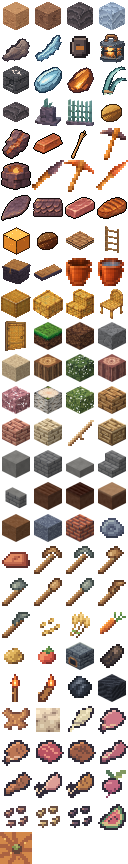
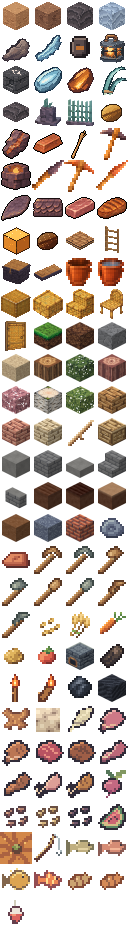
Pesca do Orvalis pela Wiki (ADR 0133, v0.202.0): vara, boia, peixes e comida
Lançar, esperar 5–30 s, recolher na janela de 1–2 s; peixes 60/25/13/2 %. A receita da vara aguarda a arte de fio.

Claude-Session: https://claude.ai/code/session_01KGdgoniDf5SwPMM31qtkm2

diff --git a/src/titan/items.ts b/src/titan/items.ts
@@ -4,7 +4,7 @@ import { BLOCK_NAMES, isCarpentry, isMarco, isPanel, isWorkbench, T } from './vo
  * Itens do Titã (ADR 0040). O id é o índice do sprite no atlas da hotbar + 1 (`render/art/titan.ts`): a ordem do atlas não depende da ordem dos espaços da barra.
  * Os quatro primeiros coincidem com os ids de bloco `T.SAND … T.FROST`.
  */
-export const Item = { SAND: 1, DAMP_SAND: 2, DARK_ROCK: 3, FROST: 4, ROCK_SHARD: 5, FROST_SHARD: 6, CAPSULE: 7, LANTERN: 8, WORKBENCH: 9, ICE_LENS: 10, EMBER: 11, GLASS_REED: 12, SLAB: 13, MARCO: 14, PAINEL: 15, NOZ: 16, COPPER_SHARD: 17, COPPER_INGOT: 18, DRY_REED: 19, STONE_PICK: 20, BRAZIER: 21, STONE_DAGGER: 22, COPPER_PICK: 23, COPPER_DAGGER: 24, PLATE: 25, CARAPACE: 26, RAW_MEAT: 27, COOKED_MEAT: 28, EMBER_BLOCK: 29, NOZ_TORRADA: 30, ESTEIRA: 31, ESCADA: 32, BAU: 33, CAMA: 34, BALDE: 35, BALDE_CHEIO: 36, BLOCO_JUNCO: 37, LAJE_JUNCO: 38, DEGRAU_JUNCO: 39, CADEIRA_JUNCO: 40, PORTA_JUNCO: 41, GRASS: 42, DIRT: 43, STONE: 44, BEACH: 45, LOG_OAK: 46, LEAVES_OAK: 47, LOG_CHERRY: 48, LEAVES_CHERRY: 49, LOG_BIRCH: 50, LEAVES_BIRCH: 51, TABUA_CARVALHO: 52, TABUA_CEREJEIRA: 53, TABUA_BETULA: 54, HASTE: 55, MESA_CARPINTARIA: 56, PEDRA_LISA: 57, TIJOLO_PEDRA: 58, LAJE_PEDRA: 59, DEGRAU_PEDRA: 60, MURETA_PEDRA: 61, TERRA_ARADA_SECA: 62, TERRA_ARADA_UMIDA: 63, CAMINHO_TERRA: 64, TERRA_INFERTIL: 65, BLOCO_ARGILA: 66, BLOCO_TIJOLOS: 67, BOLA_ARGILA: 68, TIJOLO: 69, PICARETA_MADEIRA: 70, PICARETA_PEDRA: 71, MACHADO_MADEIRA: 72, MACHADO_PEDRA: 73, PA_MADEIRA: 74, PA_PEDRA: 75, ENXADA_MADEIRA: 76, ENXADA_PEDRA: 77, SEMENTE_TRIGO: 78, TRIGO: 79, CENOURA: 80, BATATA: 81, TOMATE: 82, FORNALHA: 83, CARVAO_VEGETAL: 84, TOCHA: 85, CARVAO: 87, BLOCO_CARVAO: 88, COURO: 89, LA: 90, PENA: 91, PORCO_CRU: 92, PORCO_ASSADO: 93, BOVINA_CRUA: 94, BIFE: 95, CARNEIRO_CRU: 96, CARNEIRO_ASSADO: 97, FRANGO_CRU: 98, FRANGO_ASSADO: 99, BETERRABA: 100, SEMENTE_BETERRABA: 101, SEMENTE_ABOBORA: 102, SEMENTE_MELANCIA: 103, FATIA_MELANCIA: 104, BLOCO_ABOBORA: 105 } as const;
+export const Item = { SAND: 1, DAMP_SAND: 2, DARK_ROCK: 3, FROST: 4, ROCK_SHARD: 5, FROST_SHARD: 6, CAPSULE: 7, LANTERN: 8, WORKBENCH: 9, ICE_LENS: 10, EMBER: 11, GLASS_REED: 12, SLAB: 13, MARCO: 14, PAINEL: 15, NOZ: 16, COPPER_SHARD: 17, COPPER_INGOT: 18, DRY_REED: 19, STONE_PICK: 20, BRAZIER: 21, STONE_DAGGER: 22, COPPER_PICK: 23, COPPER_DAGGER: 24, PLATE: 25, CARAPACE: 26, RAW_MEAT: 27, COOKED_MEAT: 28, EMBER_BLOCK: 29, NOZ_TORRADA: 30, ESTEIRA: 31, ESCADA: 32, BAU: 33, CAMA: 34, BALDE: 35, BALDE_CHEIO: 36, BLOCO_JUNCO: 37, LAJE_JUNCO: 38, DEGRAU_JUNCO: 39, CADEIRA_JUNCO: 40, PORTA_JUNCO: 41, GRASS: 42, DIRT: 43, STONE: 44, BEACH: 45, LOG_OAK: 46, LEAVES_OAK: 47, LOG_CHERRY: 48, LEAVES_CHERRY: 49, LOG_BIRCH: 50, LEAVES_BIRCH: 51, TABUA_CARVALHO: 52, TABUA_CEREJEIRA: 53, TABUA_BETULA: 54, HASTE: 55, MESA_CARPINTARIA: 56, PEDRA_LISA: 57, TIJOLO_PEDRA: 58, LAJE_PEDRA: 59, DEGRAU_PEDRA: 60, MURETA_PEDRA: 61, TERRA_ARADA_SECA: 62, TERRA_ARADA_UMIDA: 63, CAMINHO_TERRA: 64, TERRA_INFERTIL: 65, BLOCO_ARGILA: 66, BLOCO_TIJOLOS: 67, BOLA_ARGILA: 68, TIJOLO: 69, PICARETA_MADEIRA: 70, PICARETA_PEDRA: 71, MACHADO_MADEIRA: 72, MACHADO_PEDRA: 73, PA_MADEIRA: 74, PA_PEDRA: 75, ENXADA_MADEIRA: 76, ENXADA_PEDRA: 77, SEMENTE_TRIGO: 78, TRIGO: 79, CENOURA: 80, BATATA: 81, TOMATE: 82, FORNALHA: 83, CARVAO_VEGETAL: 84, TOCHA: 85, CARVAO: 87, BLOCO_CARVAO: 88, COURO: 89, LA: 90, PENA: 91, PORCO_CRU: 92, PORCO_ASSADO: 93, BOVINA_CRUA: 94, BIFE: 95, CARNEIRO_CRU: 96, CARNEIRO_ASSADO: 97, FRANGO_CRU: 98, FRANGO_ASSADO: 99, BETERRABA: 100, SEMENTE_BETERRABA: 101, SEMENTE_ABOBORA: 102, SEMENTE_MELANCIA: 103, FATIA_MELANCIA: 104, BLOCO_ABOBORA: 105, VARA_PESCA: 106, BACALHAU_CRU: 107, SALMAO_CRU: 108, BAIACU: 109, PEIXE_TROPICAL: 110, BACALHAU_ASSADO: 111, SALMAO_ASSADO: 112, BOIA: 113 } as const;
 export type ItemId = (typeof Item)[keyof typeof Item];
 
 export const ITEM_NAMES: Record<number, string> = {
@@ -17,7 +17,7 @@ const ORVALIS_BLOCK_ITEMS: Readonly<Record<number, number>> = { ...Object.fromEn
 for (const [item, block] of Object.entries(ORVALIS_ITEM_BLOCKS)) ITEM_NAMES[Number(item)] = BLOCK_NAMES[block];
 Object.assign(ITEM_NAMES, { 70: 'Picareta de Madeira', 71: 'Picareta de Pedra', 72: 'Machado de Madeira', 73: 'Machado de Pedra', 74: 'Pá de Madeira', 75: 'Pá de Pedra', 76: 'Enxada de Madeira', 77: 'Enxada de Pedra' }); // ferramentas do Orvalis (ADR 0112)
 Object.assign(ITEM_NAMES, { 78: 'Semente de Trigo', 79: 'Trigo', 80: 'Cenoura', 81: 'Batata', 82: 'Tomate' }); // horta (ADR 0113)
-Object.assign(ITEM_NAMES, { 89: 'Couro', 90: 'Lã', 91: 'Pena', 92: 'Carne de Porco Crua', 93: 'Carne de Porco Assada', 94: 'Carne Bovina Crua', 95: 'Bife', 96: 'Carneiro Cru', 97: 'Carneiro Assado', 98: 'Frango Cru', 99: 'Frango Assado', 100: 'Beterraba', 101: 'Semente de Beterraba', 102: 'Semente de Abóbora', 103: 'Semente de Melancia', 104: 'Fatia de Melancia', 105: 'Bloco de Abóbora' }); // espólio da fauna de fazenda (ADR 0124; ícones provisórios, exceto couro e lã)
+Object.assign(ITEM_NAMES, { 89: 'Couro', 90: 'Lã', 91: 'Pena', 92: 'Carne de Porco Crua', 93: 'Carne de Porco Assada', 94: 'Carne Bovina Crua', 95: 'Bife', 96: 'Carneiro Cru', 97: 'Carneiro Assado', 98: 'Frango Cru', 99: 'Frango Assado', 100: 'Beterraba', 101: 'Semente de Beterraba', 102: 'Semente de Abóbora', 103: 'Semente de Melancia', 104: 'Fatia de Melancia', 105: 'Bloco de Abóbora', 106: 'Vara de Pesca', 107: 'Bacalhau Cru', 108: 'Salmão Cru', 109: 'Baiacu', 110: 'Peixe Tropical', 111: 'Bacalhau Assado', 112: 'Salmão Assado' }); // pesca (ADR 0133); 113 = só a textura da boia, não é item // espólio da fauna de fazenda (ADR 0124; ícones provisórios, exceto couro e lã)
 ITEM_NAMES[Item.CARVAO_VEGETAL] = 'Carvão Vegetal'; ITEM_NAMES[Item.CARVAO] = 'Carvão'; // item sem bloco (ADR 0122) // item sem bloco (ADR 0120; ícone provisório)
 ITEM_NAMES[Item.BOLA_ARGILA] = 'Bola de Argila'; ITEM_NAMES[Item.TIJOLO] = 'Tijolo'; // itens sem bloco (ADR 0111)
 ITEM_NAMES[Item.MURETA_PEDRA] = 'Mureta de Pedra'; // a conexão vem dos vizinhos (ADR 0110)
@@ -25,8 +25,10 @@ ITEM_NAMES[Item.DEGRAU_PEDRA] = 'Degrau de Pedra'; // sem entrada em ORVALIS_ITE
 ITEM_NAMES[Item.HASTE] = 'Haste de Madeira'; // item sem bloco (ADR 0107)
 /** Pilhas: blocos, fragmentos, lente e brasa até 64; cápsula (legada, id reservado), lanterna e mesa até 1 (a mesa 1 por espaço: é uma peça grande). */
 export const maxStack = (item: number): number => (item === Item.CAPSULE || item === Item.LANTERN || item === Item.WORKBENCH || isBucket(item) || isTool(item) ? 1 : 64);
-export const isItem = (n: unknown): n is ItemId => Number.isInteger(n) && (n as number) >= 1 && (n as number) <= 105 && n !== 86; // 86 é só a textura da Tocha de parede no atlas (ADR 0121)
+export const isItem = (n: unknown): n is ItemId => Number.isInteger(n) && (n as number) >= 1 && (n as number) <= 112 && n !== 86; // 86 é só a textura da Tocha de parede no atlas (ADR 0121)
 /** Balde de Cobre (ADR 0091): vazio recolhe uma célula do lago, cheio a despeja. Pergunte aqui, nunca compare ids soltos. */
+/** Itens que fazem a mira acertar o líquido: o balde (ADR 0091) e a vara de pesca (ADR 0133). */
+export const aimsLiquid = (item: number | undefined | null): boolean => isBucket(item) || item === Item.VARA_PESCA;
 export const isBucket = (item: number | undefined | null): boolean => item === Item.BALDE || item === Item.BALDE_CHEIO;
 
 /** Bloco que o item coloca (blocos e lanterna); fragmentos e cápsula não se colocam. */
@@ -89,7 +91,8 @@ export const dropCountOf = (block: number): number => (block === T.SLAB_DOUBLE ?
 
 /** Comida (ADR 0060): fome recuperada (pontos de 0 a 20) e saturação somada (como no Minecraft: `fome + saturação` limitada à fome). Provisório, pede teste em jogo. */
 export const FOOD: Readonly<Record<number, { hunger: number; saturation: number }>> = { [Item.NOZ]: { hunger: 4, saturation: 2.4 }, [Item.NOZ_TORRADA]: { hunger: 7, saturation: 5.6 }, [Item.RAW_MEAT]: { hunger: 2, saturation: 1.2 }, [Item.COOKED_MEAT]: { hunger: 8, saturation: 12.8 }, [Item.CENOURA]: { hunger: 3, saturation: 3.6 }, [Item.BATATA]: { hunger: 1, saturation: 0.6 }, [Item.TOMATE]: { hunger: 2, saturation: 2.4 },
-  [Item.PORCO_CRU]: { hunger: 3, saturation: 1.8 }, [Item.PORCO_ASSADO]: { hunger: 8, saturation: 12.8 }, [Item.BOVINA_CRUA]: { hunger: 3, saturation: 1.8 }, [Item.BIFE]: { hunger: 8, saturation: 12.8 }, [Item.CARNEIRO_CRU]: { hunger: 2, saturation: 1.2 }, [Item.CARNEIRO_ASSADO]: { hunger: 6, saturation: 9.6 }, [Item.FRANGO_CRU]: { hunger: 2, saturation: 1.2 }, [Item.FRANGO_ASSADO]: { hunger: 6, saturation: 7.2 }, [Item.BETERRABA]: { hunger: 1, saturation: 1.2 }, [Item.FATIA_MELANCIA]: { hunger: 2, saturation: 1.2 } }; // carnes da fauna (ADR 0124): valores da Minecraft Wiki; a intoxicação do frango cru fica de fora // horta do Orvalis (ADR 0113): cenoura e batata como no Minecraft; o tomate é nosso (provisório)
+  [Item.PORCO_CRU]: { hunger: 3, saturation: 1.8 }, [Item.PORCO_ASSADO]: { hunger: 8, saturation: 12.8 }, [Item.BOVINA_CRUA]: { hunger: 3, saturation: 1.8 }, [Item.BIFE]: { hunger: 8, saturation: 12.8 }, [Item.CARNEIRO_CRU]: { hunger: 2, saturation: 1.2 }, [Item.CARNEIRO_ASSADO]: { hunger: 6, saturation: 9.6 }, [Item.FRANGO_CRU]: { hunger: 2, saturation: 1.2 }, [Item.FRANGO_ASSADO]: { hunger: 6, saturation: 7.2 }, [Item.BETERRABA]: { hunger: 1, saturation: 1.2 }, [Item.FATIA_MELANCIA]: { hunger: 2, saturation: 1.2 },
+  [Item.BACALHAU_CRU]: { hunger: 2, saturation: 0.4 }, [Item.SALMAO_CRU]: { hunger: 2, saturation: 0.4 }, [Item.BACALHAU_ASSADO]: { hunger: 5, saturation: 6 }, [Item.SALMAO_ASSADO]: { hunger: 6, saturation: 9.6 }, [Item.PEIXE_TROPICAL]: { hunger: 1, saturation: 0.2 } }; // peixes da Wiki (ADR 0133); o baiacu não se come (sem efeitos de status) // carnes da fauna (ADR 0124): valores da Minecraft Wiki; a intoxicação do frango cru fica de fora // horta do Orvalis (ADR 0113): cenoura e batata como no Minecraft; o tomate é nosso (provisório)
 export const foodOf = (item: number): { hunger: number; saturation: number } | null => FOOD[item] ?? null;
 
 /**

diff --git a/src/titan/session.ts b/src/titan/session.ts
@@ -1,6 +1,7 @@
 import { GENERATOR_VERSION, TitanGenerator } from './generator';
 import type { TerrainGen } from './terrain';
 import { HOTBAR, Inventory } from './inventory';
+import type { Bobber } from './fishing';
 import { isItem, Item } from './items';
 import { creatureSpecs, type Farejador, newFromSpec } from './creature';
 import { type Fauna, faunaFromData, faunaSpecs, faunaToData, hasFauna, newFaunaFromSpecs } from './fauna';
@@ -65,6 +66,8 @@ export interface TitanSession {
   /** Lascas soltas por veios quebrados (v3, ADR 0044): recolhidas por proximidade; vão no cabeçalho do save. */
   drops: Map<string, Drop>;
   /** Relógio só de execução dos drops de bloco (ADR 0082): atraso de coleta e idade; fora do save (recarregar zera). */
+  /** Pescaria em curso (ADR 0133): a boia lançada; só de execução, fora do save. */
+  fishing: Bobber | null;
   dropFx: Map<string, { delay: number; age: number; /** Queda (ADR 0098): altura real em células e velocidade para baixo; ausentes = repousa. */ fy?: number; vy?: number }>;
   dropsRev: number;
   /** Receitas descobertas (`mesa`, `bancada`; ADR 0045) e adições localizadas de partida legada (a brasa dada uma vez). Vão no cabeçalho do save. */
@@ -81,7 +84,8 @@ export interface TitanSession {
 const stateRev = (s: TitanSession): number => s.inventory.rev + s.collectedRev + s.dropsRev + s.metaRev;
 /** Tudo o que está solto no mundo para desenhar: lascas legadas (v1/v2) ainda não recolhidas e as lascas dos veios (v3). */
 export function visibleItems(s: TitanSession): Array<{ id: string; item: number; x: number; y: number; z: number }> {
-  return [...s.items.remaining(), ...[...s.drops.values()].map((d) => { const fy = s.dropFx.get(d.id)?.fy; return fy === undefined ? d : { ...d, y: fy }; })]; // o item em queda desenha na altura real (ADR 0098)
+  const bobber = s.fishing ? [{ id: 'boia', item: Item.BOIA, x: s.fishing.x, y: s.fishing.y, z: s.fishing.z }] : []; // a boia da vara é desenhada como um item na superfície (ADR 0133)
+  return [...bobber, ...s.items.remaining(), ...[...s.drops.values()].map((d) => { const fy = s.dropFx.get(d.id)?.fy; return fy === undefined ? d : { ...d, y: fy }; })]; // o item em queda desenha na altura real (ADR 0098)
 }
 /** Há inventário/coleta ainda não confirmados no banco? */
 export const hasPendingState = (s: TitanSession): boolean => stateRev(s) !== s.savedStateRev;
@@ -257,7 +261,7 @@ export function fresh(gen: TerrainGen): TitanSession {
   const regrow = new Map<string, number>();
   const crops = new Map<string, Crop>();
   const grants: TitanSession['grants'] = {};
-  const s = { seed: gen.seed, volume, body: newBody(a.x, a.y, a.z), yaw: a.yaw, pitch: -0.12, selected: 0, resumed: false, relocated: false, time: START_FRAC, days: 0, weather: newWeather(Math.random), inventory: Inventory.starting(), collected, collectedRev: 0, regrow, crops, furnaces: new Map<string, FurnaceState>(), chests: new Map<string, ChestState>(), spawn: null, respawn: new Map<string, number>(), creatures: creaturesFor(gen), fauna: faunaFor(gen), savedStateRev: -1, drops: new Map(), dropFx: new Map(), dropsRev: 0, vitals: newVitals(), known: new Set<string>(), grants, metaRev: 0, items: makeItems({ volume, collected, grants, regrow, crops }) };
+  const s = { seed: gen.seed, volume, body: newBody(a.x, a.y, a.z), yaw: a.yaw, pitch: -0.12, selected: 0, resumed: false, relocated: false, time: START_FRAC, days: 0, weather: newWeather(Math.random), inventory: Inventory.starting(), collected, collectedRev: 0, regrow, crops, furnaces: new Map<string, FurnaceState>(), chests: new Map<string, ChestState>(), spawn: null, respawn: new Map<string, number>(), creatures: creaturesFor(gen), fauna: faunaFor(gen), savedStateRev: -1, drops: new Map(), dropFx: new Map(), fishing: null, dropsRev: 0, vitals: newVitals(), known: new Set<string>(), grants, metaRev: 0, items: makeItems({ volume, collected, grants, regrow, crops }) };
   return s;
 }
 
@@ -283,7 +287,7 @@ export function resume(gen: TerrainGen, save: TitanSave): TitanSession {
   const crops = validCrops(save.header.crops, volume, save.header.v);
   const respawn = validRespawn(save.header.respawn, new Set(creatureSpecs(gen).map((c) => c.id)));
   const known = new Set<string>((save.header.recipes ?? []).filter((x): x is string => typeof x === 'string'));
-  const s: TitanSession = { seed: gen.seed, volume, body: newBody(safe.x, safe.y, safe.z), yaw: p.yaw, pitch: p.pitch, selected: Math.max(0, Math.min(HOTBAR - 1, save.header.selected | 0)), resumed: true, relocated: moved, time: validDay(save.header.time), days: Number.isInteger(save.header.days) && save.header.days! >= 0 ? save.header.days! : 0, weather: weatherFromData(save.header.weather, Math.random), inventory: inv, collected, collectedRev: 0, regrow, crops, furnaces: validFurnaces(save.header.furnaces, volume), chests: validChests(save.header.chests, volume), spawn: validSpawn(save.header.spawn, volume), respawn, creatures: creaturesFor(gen).filter((c) => !respawn.has(c.id)), fauna: faunaFromSave(save.header.fauna, gen, volume), savedStateRev: -1, drops: validDrops(save.header.drops, gen), dropFx: new Map(), dropsRev: 0, known, grants, metaRev: 0, vitals: vitalsFromData(save.header.vitals), items: makeItems({ volume, collected, grants, regrow, crops }) };
+  const s: TitanSession = { seed: gen.seed, volume, body: newBody(safe.x, safe.y, safe.z), yaw: p.yaw, pitch: p.pitch, selected: Math.max(0, Math.min(HOTBAR - 1, save.header.selected | 0)), resumed: true, relocated: moved, time: validDay(save.header.time), days: Number.isInteger(save.header.days) && save.header.days! >= 0 ? save.header.days! : 0, weather: weatherFromData(save.header.weather, Math.random), inventory: inv, collected, collectedRev: 0, regrow, crops, furnaces: validFurnaces(save.header.furnaces, volume), chests: validChests(save.header.chests, volume), spawn: validSpawn(save.header.spawn, volume), respawn, creatures: creaturesFor(gen).filter((c) => !respawn.has(c.id)), fauna: faunaFromSave(save.header.fauna, gen, volume), savedStateRev: -1, drops: validDrops(save.header.drops, gen), dropFx: new Map(), fishing: null, dropsRev: 0, known, grants, metaRev: 0, vitals: vitalsFromData(save.header.vitals), items: makeItems({ volume, collected, grants, regrow, crops }) };
   // partida de gerador antigo sem a fonte nova: adição localizada e determinística do depósito de brasa (respeita edições, construções e o que já foi consumido)
   const granted = gen.version < 4 && !grants.ember ? grantEmber(s) : false;
   discoverRecipes(s);

diff --git a/src/titan/orvalis/pesca.test.ts b/src/titan/orvalis/pesca.test.ts
@@ -1,0 +1,85 @@
+import { describe, expect, it } from 'vitest';
+import { placeFromSlot } from '../actions';
+import { FISH_MAX_DISTANCE, FISH_TABLE, FISH_WAIT_MAX_S, FISH_WAIT_MIN_S, FISH_WINDOW_MAX_S, FISH_WINDOW_MIN_S, newBobber, rollFish, stepFishing, tickBobber } from '../fishing';
+import { aimsLiquid, foodOf, isItem, Item } from '../items';
+import { maxDurability } from '../wear';
+import { MemoryTitanStorage } from '../save';
+import { openSession, visibleItems } from '../session';
+import { T } from '../voxel';
+import { RECIPES } from '../recipes';
+import { SLOTS } from '../inventory';
+
+/** Pesca do Orvalis (ADR 0133): vara, boia, espera, fisgada, peixes e comida pela Wiki. */
+const Y = 150;
+const setup = async () => {
+  const s = await openSession(new MemoryTitanStorage(), 42, () => 1, undefined, 2);
+  const a = s.volume.gen.arrival, x = Math.floor(a.x) + 6, z = Math.floor(a.z) + 6, v = s.volume;
+  for (let dx = -3; dx <= 3; dx++) for (let dz = -3; dz <= 3; dz++) for (let yy = Y - 6; yy < Y + 4; yy++) v.set(x + dx, yy, z + dz, yy < Y - 5 ? T.DARK_ROCK : yy < Y ? T.LAKE : T.AIR);
+  s.body.x = x + 0.5; s.body.y = Y; s.body.z = z + 3.5;
+  s.inventory.add(Item.VARA_PESCA, 1);
+  s.selected = Array.from({ length: SLOTS }, (_, i) => i).find((i) => s.inventory.get(i)?.item === Item.VARA_PESCA) ?? 0;
+  return { s, x, z };
+};
+const hitAt = (x: number, y: number, z: number) => ({ x, y, z, nx: 0, ny: 1, nz: 0 });
+
+describe('pesca (ADR 0133)', () => {
+  it('itens, comida e durabilidade da Wiki', () => {
+    expect(isItem(106)).toBe(true); expect(isItem(112)).toBe(true); expect(isItem(113)).toBe(false);
+    expect(foodOf(Item.BACALHAU_CRU)).toEqual({ hunger: 2, saturation: 0.4 }); expect(foodOf(Item.SALMAO_ASSADO)).toEqual({ hunger: 6, saturation: 9.6 });
+    expect(foodOf(Item.BACALHAU_ASSADO)).toEqual({ hunger: 5, saturation: 6 }); expect(foodOf(Item.PEIXE_TROPICAL)).toEqual({ hunger: 1, saturation: 0.2 });
+    expect(foodOf(Item.BAIACU)).toBeNull(); // sem efeitos de status, o baiacu não se come
+    expect(maxDurability(Item.VARA_PESCA)).toBe(64); expect(aimsLiquid(Item.VARA_PESCA)).toBe(true);
+  });
+  it('a tabela de peixes soma 100 e o sorteio respeita os pesos', () => {
+    expect(FISH_TABLE.reduce((a, e) => a + e.weight, 0)).toBe(100);
+    expect(rollFish(() => 0)).toBe(Item.BACALHAU_CRU); expect(rollFish(() => 0.61)).toBe(Item.SALMAO_CRU); expect(rollFish(() => 0.9)).toBe(Item.BAIACU); expect(rollFish(() => 0.995)).toBe(Item.PEIXE_TROPICAL);
+  });
+  it('espera de 5 a 30 s, fisgada e janela de 1 a 2 s; sem recolher, o peixe escapa', () => {
+    expect(newBobber(0, 0, 0, () => 0).t).toBe(FISH_WAIT_MIN_S); expect(newBobber(0, 0, 0, () => 1).t).toBe(FISH_WAIT_MAX_S);
+    const b = newBobber(0, 0, 0, () => 0);
+    expect(tickBobber(b, 4.9, () => 0)).toBeNull(); expect(tickBobber(b, 0.2, () => 0)).toBe('bite');
+    expect(b.phase).toBe('bite'); expect(b.t).toBe(FISH_WINDOW_MIN_S); expect(FISH_WINDOW_MAX_S).toBe(2);
+    expect(tickBobber(b, 1.1, () => 0)).toBe('escape'); expect(b.phase).toBe('wait');
+  });
+  it('lança na água, a boia aparece e o toque na fisgada traz o peixe e gasta 1 uso', async () => {
+    const { s, x, z } = await setup();
+    const r = placeFromSlot(s, hitAt(x, Y - 1, z), s.selected);
+    expect(r.ok).toBe(true); expect(s.fishing).toMatchObject({ x, y: Y, z, phase: 'wait' });
+    expect(visibleItems(s).some((i) => i.id === 'boia' && i.item === Item.BOIA)).toBe(true);
+    s.fishing!.t = 0.01; expect(stepFishing(s, 0.1)).toBe('bite');
+    const got = placeFromSlot(s, hitAt(x, Y - 1, z), s.selected);
+    expect(got.ok).toBe(true); expect(got.msg).toMatch(/Pescou/); expect(s.fishing).toBeNull();
+    const n = [Item.BACALHAU_CRU, Item.SALMAO_CRU, Item.BAIACU, Item.PEIXE_TROPICAL].reduce((a, i) => a + s.inventory.total(i), 0);
+    expect(n).toBe(1); expect(s.inventory.get(s.selected)?.wear).toBe(1);
+  });
+  it('recolher antes da fisgada não pega nada nem gasta a vara', async () => {
+    const { s, x, z } = await setup();
+    placeFromSlot(s, hitAt(x, Y - 1, z), s.selected);
+    const r = placeFromSlot(s, hitAt(x, Y - 1, z), s.selected);
+    expect(r.msg).toBe('Linha recolhida'); expect(s.fishing).toBeNull(); expect(s.inventory.get(s.selected)?.wear ?? 0).toBe(0);
+  });
+  it('só lança na água', async () => {
+    const { s, x, z } = await setup();
+    expect(placeFromSlot(s, hitAt(x, Y - 6, z), s.selected).ok).toBe(false); expect(s.fishing).toBeNull(); // o fundo de rocha
+  });
+  it('a linha se solta com a vara fora da mão ou longe demais', async () => {
+    const { s, x, z } = await setup();
+    placeFromSlot(s, hitAt(x, Y - 1, z), s.selected);
+    s.body.z += FISH_MAX_DISTANCE + 1; expect(stepFishing(s, 0.1)).toBe('lost'); expect(s.fishing).toBeNull();
+    s.body.z -= FISH_MAX_DISTANCE + 1; placeFromSlot(s, hitAt(x, Y - 1, z), s.selected);
+    s.selected = (s.selected + 1) % 9; expect(stepFishing(s, 0.1)).toBe('lost');
+  });
+  it('bacalhau e salmão assam na fornalha; a vara ainda não tem receita (espera o fio)', () => {
+    const ids = RECIPES.filter((r) => r.world === 'orvalis').map((r) => r.id);
+    expect(ids).toContain('assar-bacalhau'); expect(ids).toContain('assar-salmao');
+    expect(RECIPES.some((r) => r.result.item === Item.VARA_PESCA)).toBe(false);
+  });
+  it('sem lugar na mochila, o peixe cai ao lado da boia', async () => {
+    const { s, x, z } = await setup();
+    placeFromSlot(s, hitAt(x, Y - 1, z), s.selected); s.fishing!.t = 0; stepFishing(s, 0.1);
+    while (s.inventory.canAdd(Item.TIJOLO, 64)) s.inventory.add(Item.TIJOLO, 64); // lota a mochila
+    const before = s.drops.size;
+    placeFromSlot(s, hitAt(x, Y - 1, z), s.selected);
+    expect(s.drops.size).toBe(before + 1);
+  });
+});

diff --git a/src/titan/titan.css b/src/titan/titan.css
@@ -28,7 +28,7 @@ body.titan #world { position: fixed; inset: 0; width: 100%; height: 100%; displa
 .titan-hurt { position: absolute; inset: 0; opacity: 0; pointer-events: none; background: radial-gradient(ellipse at center, rgba(150, 24, 24, 0) 38%, rgba(150, 24, 24, 0.6) 100%); }
 .titan-hurt.on { animation: titan-hurt 0.4s ease-out; }
 @keyframes titan-hurt { from { opacity: 1; } to { opacity: 0; } }
-.titan-icon { display: block; width: var(--ic); height: var(--ic); background-size: calc(var(--ic) * 4) calc(var(--ic) * 27); image-rendering: pixelated; pointer-events: none; }
+.titan-icon { display: block; width: var(--ic); height: var(--ic); background-size: calc(var(--ic) * 4) calc(var(--ic) * 29); image-rendering: pixelated; pointer-events: none; }
 .titan-slot .key { position: absolute; top: 2px; left: 3px; font: 700 10px ui-monospace, monospace; color: #f2cc93; text-shadow: 1px 1px #171410; pointer-events: none; }
 .titan-slot .count { position: absolute; right: 3px; bottom: 1px; font: 700 11px ui-monospace, monospace; font-style: normal; color: #fff3df; text-shadow: 1px 1px #171410; pointer-events: none; }
 .titan-craft { display: grid; gap: 6px; max-width: 200px; }
@@ -77,7 +77,7 @@ body.titan-aim-finger .titan-cross { display: none; } /* mira no dedo: sem cruze
 /* Bolsa e livro de receitas (ADR 0047): hotbar de 9 com ☰ fora dos espaços; grupos | receitas | grade de fabricação e item final (a bolsa é o último grupo) */
 .titan-hotbar { width: var(--hbw); box-sizing: border-box; justify-content: space-between; }
 .titan-hbmenu { position: absolute; left: calc(50% + var(--hbw) / 2 + 8px); bottom: var(--hbb); width: calc(var(--slot) + 14px); height: calc(var(--slot) + 14px); padding: 0; font-size: 22px; line-height: 1; pointer-events: auto; }
-.titan-icon.md { display: block; flex: none; width: var(--icm); height: var(--icm); background-size: calc(var(--icm) * 4) calc(var(--icm) * 27); }
+.titan-icon.md { display: block; flex: none; width: var(--icm); height: var(--icm); background-size: calc(var(--icm) * 4) calc(var(--icm) * 29); }
 .titan-panel { position: absolute; z-index: 5; left: 50%; transform: translateX(-50%); width: min(calc(100vw - 16px), 724px); box-sizing: border-box; bottom: calc(var(--hbb) + var(--slot) + 14px + 5px);
   height: min(calc(100vh - var(--hbb) - var(--slot) - 14px - 5px - max(6px, env(safe-area-inset-top))), 420px);
   display: flex; flex-direction: column; padding: 5px; overflow: hidden; background: #171c20f7; border: 1px solid #765943; border-radius: 6px; pointer-events: auto; touch-action: none; }
@@ -170,7 +170,7 @@ body.titan input { user-select: text; -webkit-user-select: text; }
 .titan-furnace .titan-fcol { display: inline-flex; flex-direction: column; align-items: center; gap: 3px; min-width: 0; }
 .titan-furnace .flabel { color: #cdb89a; font-size: 11px; white-space: nowrap; }
 .titan-furnace .titan-fslot { width: var(--fsz); height: var(--fsz); border-width: 2px; }
-.titan-furnace .titan-fslot .titan-icon { width: var(--icm); height: var(--icm); background-size: calc(var(--icm) * 4) calc(var(--icm) * 27); }
+.titan-furnace .titan-fslot .titan-icon { width: var(--icm); height: var(--icm); background-size: calc(var(--icm) * 4) calc(var(--icm) * 29); }
 .titan-furnace .titan-fslot .count { font-size: 12px; right: 4px; bottom: 2px; }
 .titan-furnace .titan-fslot.out { --icm: 64px; width: var(--fbig); height: var(--fbig); } /* o resultado em escala 2× (inteira) */
 .titan-furnace .titan-fslot.out .count { font-size: 14px; right: 5px; bottom: 3px; }
@@ -187,7 +187,7 @@ body.titan input { user-select: text; -webkit-user-select: text; }
 /* Bolsa e livro de receitas (ADR 0047): hotbar de 9 com ☰ fora dos espaços; grupos | receitas | grade de fabricação e item final (a bolsa é o último grupo) */
 .titan-hotbar { width: var(--hbw); box-sizing: border-box; justify-content: space-between; }
 .titan-hbmenu { position: absolute; left: calc(50% + var(--hbw) / 2 + 8px); bottom: var(--hbb); width: calc(var(--slot) + 14px); height: calc(var(--slot) + 14px); padding: 0; font-size: 22px; line-height: 1; pointer-events: auto; }
-.titan-icon.md { display: block; flex: none; width: var(--icm); height: var(--icm); background-size: calc(var(--icm) * 4) calc(var(--icm) * 27); }
+.titan-icon.md { display: block; flex: none; width: var(--icm); height: var(--icm); background-size: calc(var(--icm) * 4) calc(var(--icm) * 29); }
 .titan-panel { position: absolute; z-index: 5; left: 50%; transform: translateX(-50%); width: min(calc(100vw - 16px), 724px); box-sizing: border-box; bottom: calc(var(--hbb) + var(--slot) + 14px + 5px);
   height: min(calc(100vh - var(--hbb) - var(--slot) - 14px - 5px - max(6px, env(safe-area-inset-top))), 420px);
   display: flex; flex-direction: column; padding: 5px; overflow: hidden; background: #171c20f7; border: 1px solid #765943; border-radius: 6px; pointer-events: auto; touch-action: none; }

diff --git a/src/titan/titanGame.ts b/src/titan/titanGame.ts
@@ -21,7 +21,8 @@ import { isoCamera, isoQuarterOf, isoRay, isoYawOf, ISO_RAY_MAX, ISO_REACH, step
 import { type GestureTarget, InteractionGesture } from './gesture';
 import { BENCH_OUT, BENCH_SLOTS, BENCH_START, HOTBAR, SLOTS } from './inventory';
 import { CHEST_SLOTS } from './chest';
-import { blockOfItem, foodOf, isBucket, Item, ITEM_NAMES } from './items';
+import { aimsLiquid, blockOfItem, foodOf, isBucket, Item, ITEM_NAMES } from './items';
+import { stepFishing } from './fishing';
 import { LANTERN_PAD_MOUSE, LANTERN_PAD_TOUCH } from './lantern';
 import { EYE_HEIGHT, lookVector, raycast, stepBody, type Hit } from './physics';
 import { startPerfHud } from '../dev/perfHud';
@@ -834,7 +835,7 @@ export async function startTitan(canvas: HTMLCanvasElement, search: string, stor
     } else ray = fingerMode() ? (fingerNdc ? rayThrough(session.yaw, session.pitch, fingerNdc.x, fingerNdc.y, (canvas.clientWidth || 2) / (canvas.clientHeight || 1), view.fov) : null) : lookVector(session.yaw, session.pitch);
     if (!ray) { target = null; aimCreature = null; aimFauna = null; } else {
       const [dx, dy, dz] = ray;
-      target = raycast(vol, o.x, o.y, o.z, dx, dy, dz, reach, session.items, coarse ? LANTERN_PAD_TOUCH : LANTERN_PAD_MOUSE, isBucket(session.inventory.get(session.selected)?.item)); // balde na mão: a mira acerta o líquido (ADR 0091); cheio, é por ele que se olha a cavidade
+      target = raycast(vol, o.x, o.y, o.z, dx, dy, dz, reach, session.items, coarse ? LANTERN_PAD_TOUCH : LANTERN_PAD_MOUSE, aimsLiquid(session.inventory.get(session.selected)?.item)); // balde ou vara na mão: a mira acerta o líquido (ADR 0091, 0133); cheio, é por ele que se olha a cavidade
       if (iso && target && Math.hypot(target.x + 0.5 - eye.x, target.y + 0.5 - eye.y, target.z + 0.5 - eye.z) - 0.5 > ISO_REACH) target = null; // longe demais para alcançar
       const blockDist = target ? Math.max(0, Math.hypot(target.x + 0.5 - o.x, target.y + 0.5 - o.y, target.z + 0.5 - o.z) - 0.5) : Infinity;
       aimCreature = creatureAim(session.creatures, o.x, o.y, o.z, dx, dy, dz, creatureReach, blockDist);
@@ -929,7 +930,8 @@ export async function startTitan(canvas: HTMLCanvasElement, search: string, stor
       if (r.msg) notice(r.msg);
       if (r.ok) {
         const b = held ? blockOfItem(held.item) : null;
-        if (held && isBucket(held.item)) { if (held.item === Item.BALDE) gameAudio.playWaterScoop(); else gameAudio.playWaterPour(); } // recolher e despejar têm som de água (ADR 0095)
+        if (held?.item === Item.VARA_PESCA) { if (session.fishing) gameAudio.playWaterPour(); else gameAudio.playWaterScoop(); view.setItems(visibleItems(session)); } // lançar e recolher a linha (ADR 0133)
+        else if (held && isBucket(held.item)) { if (held.item === Item.BALDE) gameAudio.playWaterScoop(); else gameAudio.playWaterPour(); } // recolher e despejar têm som de água (ADR 0095)
         else if (b === T.LANTERN) gameAudio.playLanternPlace(); else gameAudio.playBlockPlace(surfaceOf(b ?? undefined) ?? 'rock');
         onEdited(); refresh();
       }
@@ -1097,6 +1099,7 @@ export async function startTitan(canvas: HTMLCanvasElement, search: string, stor
       const shown = session.creatures.filter((fj) => Math.hypot(fj.body.x - b.x, fj.body.z - b.z) <= SHOW_RADIUS).sort((p, q) => Math.hypot(p.body.x - b.x, p.body.z - b.z) - Math.hypot(q.body.x - b.x, q.body.z - b.z)).slice(0, SHOW_MAX); // só os mais próximos vão para o desenho (cada rig tem ~24 mil triângulos)
       view.setFarejadores(shown.map((fj) => ({ x: fj.body.x, y: fj.body.y, z: fj.body.z, yaw: fj.yaw, scale: KINDS[fj.kind].scale, pose: farejadorPose(fj, Math.hypot(fj.body.vx, fj.body.vz) > 0.05) })));
     }
+    if (active) { const fe = stepFishing(session, dt); if (fe === 'bite') { notice('Fisgou! Toque para recolher'); gameAudio.playWaterPour(); } else if (fe === 'lost') { notice('A linha se soltou'); view.setItems(visibleItems(session)); } } // pescaria (ADR 0133)
     if (session.fauna.length || fauna.shown) { // fauna de fazenda (ADR 0124): passeia perto do viajante e foge ao ser ferida
       for (const fa of session.fauna) {
         if (!active) break;

diff --git a/src/titan/actions.ts b/src/titan/actions.ts
@@ -1,6 +1,7 @@
 import { hoeResult, shovelResult } from './soil';
 import { blockOfItem, dropCountOf, foodOf, isBucket, isHoe, isPick, isShovel, Item, ITEM_NAMES, itemOfBlock, maxStack } from './items';
 import type { Drop } from './save';
+import { newBobber, rollFish } from './fishing';
 import { hash2 } from '../world/random';
 import { NUT_REGROW_S, NUT_YIELD } from './nuts';
 import { resolveSlabPlacement } from './slabs';
@@ -587,6 +588,33 @@ function useBucket(s: TitanSession, hit: Hit, slot: number): ActionResult {
   return { ok: true, msg: 'Líquido despejado' };
 }
 
+/**
+ * Vara de pesca (ADR 0133): sem linha, o toque na água lança a boia na superfície; com a linha lançada, o toque recolhe — se o peixe fisgou (`phase` = `bite`) ele vem para a mochila (ou cai ao lado da boia se não
+ * couber) e a vara gasta 1 uso; antes da fisgada só recolhe a linha, sem gasto (Wiki).
+ */
+export function reelIn(s: TitanSession, slot: number, rng: () => number = Math.random): ActionResult {
+  const f = s.fishing;
+  s.fishing = null;
+  s.dropsRev++; // a boia some do desenho
+  if (!f || f.phase !== 'bite') return { ok: true, msg: 'Linha recolhida' };
+  const fish = rollFish(rng);
+  if (s.inventory.canAdd(fish, 1)) s.inventory.add(fish, 1);
+  else { let n = 0; while (s.drops.has(`f:${f.x},${f.y},${f.z}:${n}`)) n++; restDrop(s, `f:${f.x},${f.y},${f.z}:${n}`, fish, f.x, f.y, f.z, 1); }
+  const w = s.inventory.damage(slot, 1);
+  return w?.broken ? { ok: true, broken: true, msg: `Pescou: ${ITEM_NAMES[fish]} · a vara quebrou` } : { ok: true, msg: `Pescou: ${ITEM_NAMES[fish]}` };
+}
+function useRod(s: TitanSession, hit: Hit, slot: number, rng: () => number = Math.random): ActionResult {
+  if (s.fishing) return reelIn(s, slot, rng);
+  const v = s.volume;
+  if (hit.item || v.get(hit.x, hit.y, hit.z) !== T.LAKE) return { ok: false, msg: 'Lance a vara na água' };
+  let y = hit.y;
+  while (v.get(hit.x, y + 1, hit.z) === T.LAKE) y++; // a boia fica na superfície da coluna
+  if (v.get(hit.x, y + 1, hit.z) !== T.AIR) return { ok: false, msg: 'Falta espaço livre sobre a água' };
+  s.fishing = newBobber(hit.x, y + 1, hit.z, rng);
+  s.dropsRev++; // a boia aparece no desenho
+  return { ok: true, msg: 'Vara lançada' };
+}
+
 /** Enxada e pá no toque sobre a face de cima do solo (ADR 0112): a enxada ara (terra, grama, caminho; úmida se há água ao alcance) e a pá abre caminho na grama e na terra; gasta 1 de durabilidade. */
 function useSoilTool(s: TitanSession, hit: Hit, hoe: boolean): ActionResult {
   const { x, y, z } = hit;
@@ -603,6 +631,7 @@ export function placeFromSlot(s: TitanSession, hit: Hit, slot: number): ActionRe
   const stack = s.inventory.get(slot);
   if (!stack) return { ok: false };
   if (isHoe(stack.item) || isShovel(stack.item)) return useSoilTool(s, hit, isHoe(stack.item)); // arar e abrir caminho (ADR 0112)
+  if (stack.item === Item.VARA_PESCA) return useRod(s, hit, slot); // lançar e recolher a linha (ADR 0133)
   if (isBucket(stack.item)) return useBucket(s, hit, slot); // o balde recolhe e despeja líquido (ADR 0091)
   if (stack.item === Item.NOZ && canPlantNut(s, hit)) return plantCrop(s, hit, slot, 'noz'); // a noz se planta no topo da areia ocre (ADR 0083)
   const garden = gardenSpeciesOf(stack.item); // a horta (ADR 0113): semente de trigo, cenoura, batata e tomate se plantam no topo da terra arada; cenoura, batata e tomate, onde não dá para plantar, se comem

diff --git a/src/titan/fishing.ts b/src/titan/fishing.ts
@@ -1,0 +1,53 @@
+import { Item } from './items';
+import type { TitanSession } from './session';
+
+/**
+ * Pesca do Orvalis (ADR 0133, Minecraft Wiki "Fishing" e "Fishing Rod", Java): a vara lança a boia na água; depois de uma espera sorteada o peixe **fisga**, e há uma janela curta para recolher.
+ * Estado só de execução (`session.fishing`, fora do save). Puro e determinístico com `rng` injetável; sem DOM.
+ */
+/** Espera até a fisgada (5 a 30 s) e janela para recolher depois dela (1 a 2 s, Java). */
+export const FISH_WAIT_MIN_S = 5, FISH_WAIT_MAX_S = 30, FISH_WINDOW_MIN_S = 1, FISH_WINDOW_MAX_S = 2;
+/** Distância máxima entre o jogador e a boia (Wiki: 33 blocos); além disso a linha se solta. */
+export const FISH_MAX_DISTANCE = 33;
+/** Peixes sem encantamento (Wiki: 60/25/13/2 % entre os peixes; lixo e tesouro ficam de fora até haver itens). */
+export const FISH_TABLE: ReadonlyArray<{ item: number; weight: number }> = [
+  { item: Item.BACALHAU_CRU, weight: 60 }, { item: Item.SALMAO_CRU, weight: 25 }, { item: Item.BAIACU, weight: 13 }, { item: Item.PEIXE_TROPICAL, weight: 2 },
+];
+
+/** A boia: célula do ar logo acima da superfície; `phase` espera ou fisgada; `t` = segundos que faltam para a fase acabar. */
+export interface Bobber { x: number; y: number; z: number; phase: 'wait' | 'bite'; t: number }
+
+const span = (min: number, max: number, rng: () => number): number => min + (max - min) * rng();
+export const newBobber = (x: number, y: number, z: number, rng: () => number = Math.random): Bobber => ({ x, y, z, phase: 'wait', t: span(FISH_WAIT_MIN_S, FISH_WAIT_MAX_S, rng) });
+
+/** Sorteia o peixe da pescaria. */
+export function rollFish(rng: () => number = Math.random): number {
+  const total = FISH_TABLE.reduce((a, e) => a + e.weight, 0);
+  let r = rng() * total;
+  for (const e of FISH_TABLE) { r -= e.weight; if (r < 0) return e.item; }
+  return FISH_TABLE[0].item;
+}
+
+/** Avança a boia em `dt` s: no fim da espera o peixe fisga (`bite`); se a janela passa sem recolher, ele escapa (`escape`) e a espera recomeça. */
+export function tickBobber(b: Bobber, dt: number, rng: () => number = Math.random): 'bite' | 'escape' | null {
+  b.t -= Math.max(0, dt);
+  if (b.t > 0) return null;
+  if (b.phase === 'wait') { b.phase = 'bite'; b.t = span(FISH_WINDOW_MIN_S, FISH_WINDOW_MAX_S, rng); return 'bite'; }
+  b.phase = 'wait'; b.t = span(FISH_WAIT_MIN_S, FISH_WAIT_MAX_S, rng);
+  return 'escape';
+}
+
+/** A boia está longe demais do jogador (pés em `px, py, pz`)? */
+export const bobberTooFar = (b: Bobber, px: number, py: number, pz: number): boolean => Math.hypot(b.x + 0.5 - px, b.y - py, b.z + 0.5 - pz) > FISH_MAX_DISTANCE;
+
+export type FishEvent = 'bite' | 'escape' | 'lost' | null;
+/**
+ * Passo da pescaria da sessão: a linha se solta (`lost`) se a vara saiu da mão ou o jogador se afastou além de `FISH_MAX_DISTANCE`; senão avança a boia. Devolve o evento para o jogo avisar e redesenhar.
+ */
+export function stepFishing(s: TitanSession, dt: number, rng: () => number = Math.random): FishEvent {
+  const f = s.fishing;
+  if (!f) return null;
+  const b = s.body;
+  if (s.inventory.get(s.selected)?.item !== Item.VARA_PESCA || bobberTooFar(f, b.x, b.y, b.z)) { s.fishing = null; return 'lost'; }
+  return tickBobber(f, dt, rng);
+}

diff --git a/src/titan/recipes.ts b/src/titan/recipes.ts
@@ -79,6 +79,8 @@ export const RECIPES: readonly Recipe[] = [
   { id: 'carvao-carvalho', name: 'Carvão Vegetal (tora de carvalho)', group: 'materiais', result: { item: Item.CARVAO_VEGETAL, count: 1 }, ingredients: [{ item: Item.LOG_OAK, count: 1 }], station: 'furnace', world: 'orvalis' },
   { id: 'carvao-cerejeira', name: 'Carvão Vegetal (tora de cerejeira)', group: 'materiais', result: { item: Item.CARVAO_VEGETAL, count: 1 }, ingredients: [{ item: Item.LOG_CHERRY, count: 1 }], station: 'furnace', world: 'orvalis' },
   { id: 'carvao-betula', name: 'Carvão Vegetal (tora de bétula)', group: 'materiais', result: { item: Item.CARVAO_VEGETAL, count: 1 }, ingredients: [{ item: Item.LOG_BIRCH, count: 1 }], station: 'furnace', world: 'orvalis' },
+  { id: 'assar-bacalhau', name: 'Bacalhau Assado', group: 'materiais', result: { item: Item.BACALHAU_ASSADO, count: 1 }, ingredients: [{ item: Item.BACALHAU_CRU, count: 1 }], station: 'furnace', world: 'orvalis' },
+  { id: 'assar-salmao', name: 'Salmão Assado', group: 'materiais', result: { item: Item.SALMAO_ASSADO, count: 1 }, ingredients: [{ item: Item.SALMAO_CRU, count: 1 }], station: 'furnace', world: 'orvalis' },
   { id: 'assar-porco', name: 'Carne de Porco Assada', group: 'materiais', result: { item: Item.PORCO_ASSADO, count: 1 }, ingredients: [{ item: Item.PORCO_CRU, count: 1 }], station: 'furnace', world: 'orvalis' },
   { id: 'assar-bife', name: 'Bife', group: 'materiais', result: { item: Item.BIFE, count: 1 }, ingredients: [{ item: Item.BOVINA_CRUA, count: 1 }], station: 'furnace', world: 'orvalis' },
   { id: 'assar-carneiro', name: 'Carneiro Assado', group: 'materiais', result: { item: Item.CARNEIRO_ASSADO, count: 1 }, ingredients: [{ item: Item.CARNEIRO_CRU, count: 1 }], station: 'furnace', world: 'orvalis' },

diff --git a/src/titan/orvalis/carvao.test.ts b/src/titan/orvalis/carvao.test.ts
@@ -20,7 +20,7 @@ describe('carvão: blocos, itens e regras', () => {
     expect(T.COAL_ORE).toBe(150); expect(T.COAL_BLOCK).toBe(151);
     for (const id of [T.COAL_ORE, T.COAL_BLOCK]) { expect(isFull(id) && blocksLight(id)).toBe(true); expect(blockToolOf(id)).toBe('pick'); expect(surfaceOf(id)).toBe('rock'); }
     expect(tileFor(T.COAL_ORE, 'top')).toBe(tileIndex('orvalis/minerio-carvao')); expect(tileFor(T.COAL_BLOCK, 'side')).toBe(tileIndex('orvalis/bloco-carvao'));
-    expect(Item.CARVAO).toBe(87); expect(Item.BLOCO_CARVAO).toBe(88); expect(isItem(87) && isItem(88)).toBe(true); expect(isItem(86) || isItem(106)).toBe(false);
+    expect(Item.CARVAO).toBe(87); expect(Item.BLOCO_CARVAO).toBe(88); expect(isItem(87) && isItem(88)).toBe(true); expect(isItem(86) || isItem(113)).toBe(false);
     expect(ITEM_NAMES[87]).toBe('Carvão'); expect(ITEM_NAMES[88]).toBe('Bloco de Carvão'); expect(maxStack(87)).toBe(64);
     expect(blockOfItem(Item.BLOCO_CARVAO)).toBe(T.COAL_BLOCK); expect(blockOfItem(Item.CARVAO)).toBeNull();
     expect(itemOfBlock(T.COAL_ORE)).toBe(Item.CARVAO); expect(itemOfBlock(T.COAL_BLOCK)).toBe(Item.BLOCO_CARVAO); // o minério solta Carvão, nunca o bloco

diff --git a/src/titan/desgaste.test.ts b/src/titan/desgaste.test.ts
@@ -11,7 +11,7 @@ const slotOf = (s: { inventory: Inventory }, item: number): number => Array.from
 
 describe('durabilidade das ferramentas (ADR 0067)', () => {
   it('tabela e custos do Minecraft: picareta −1 no bloco e −2 no golpe; adaga −2 no bloco e −1 no golpe; recolhimento instantâneo não gasta', () => {
-    expect(maxDurability(Item.STONE_PICK)).toBe(131); expect(maxDurability(Item.COPPER_DAGGER)).toBe(190); expect(maxDurability(Item.NOZ)).toBeNull(); expect(Object.keys(MAX_DURABILITY)).toHaveLength(12); // as 4 do Titã e as 8 do Orvalis (ADR 0112)
+    expect(maxDurability(Item.STONE_PICK)).toBe(131); expect(maxDurability(Item.COPPER_DAGGER)).toBe(190); expect(maxDurability(Item.NOZ)).toBeNull(); expect(Object.keys(MAX_DURABILITY)).toHaveLength(13); // as 4 do Titã e as 8 do Orvalis (ADR 0112)
     for (const [tool, block, atk] of [[Item.STONE_PICK, 1, 2], [Item.COPPER_PICK, 1, 2], [Item.STONE_DAGGER, 2, 1], [Item.COPPER_DAGGER, 2, 1]] as const) {
       expect(wearCost(tool, { type: 'break_block', block: T.DARK_ROCK })).toBe(block); expect(wearCost(tool, { type: 'attack' })).toBe(atk);
     }

diff --git a/src/titan/orvalis/fauna.test.ts b/src/titan/orvalis/fauna.test.ts
@@ -196,7 +196,7 @@ describe('Itens 89–99, comida e receitas', () => {
   it('faixa do Orvalis, nomes, pilha 64 e atlas até o 99', () => {
     expect(Item.COURO).toBe(89); expect(Item.FRANGO_ASSADO).toBe(99);
     for (let i = 89; i <= 99; i++) { expect(isItem(i)).toBe(true); expect(ITEM_NAMES[i]).toBeTruthy(); expect(maxStack(i)).toBe(64); }
-    expect(isItem(100) && isItem(101)).toBe(true); expect(isItem(102) && isItem(105)).toBe(true); expect(isItem(106)).toBe(false); // 100–101 = beterraba (ADR 0127); 102–105 = abóbora e melancia (ADR 0128)
+    expect(isItem(100) && isItem(101)).toBe(true); expect(isItem(102) && isItem(105)).toBe(true); expect(isItem(113)).toBe(false); // 100–101 = beterraba (ADR 0127); 102–105 = abóbora e melancia (ADR 0128)
     expect(ITEM_NAMES[Item.BIFE]).toBe('Bife'); expect(ITEM_NAMES[Item.LA]).toBe('Lã');
   });
   it('comida da Wiki: carne crua e assada', () => {

diff --git a/src/titan/orvalis/beterraba.test.ts b/src/titan/orvalis/beterraba.test.ts
@@ -14,7 +14,7 @@ const open = async () => openSession(new MemoryTitanStorage(), 42, () => 1, orva
 describe('Beterraba: itens, comida e porco', () => {
   it('itens 100 e 101, nomes, pilha 64 e comida da Wiki (1 de fome, 1,2 de saciedade)', () => {
     expect(Item.BETERRABA).toBe(100); expect(Item.SEMENTE_BETERRABA).toBe(101);
-    expect(isItem(100) && isItem(101)).toBe(true); expect(isItem(106)).toBe(false);
+    expect(isItem(100) && isItem(101)).toBe(true); expect(isItem(113)).toBe(false);
     expect(ITEM_NAMES[100]).toBe('Beterraba'); expect(ITEM_NAMES[101]).toBe('Semente de Beterraba'); expect(maxStack(100)).toBe(64);
     expect(foodOf(Item.BETERRABA)).toEqual({ hunger: 1, saturation: 1.2 }); expect(foodOf(Item.SEMENTE_BETERRABA)).toBeNull();
   });
